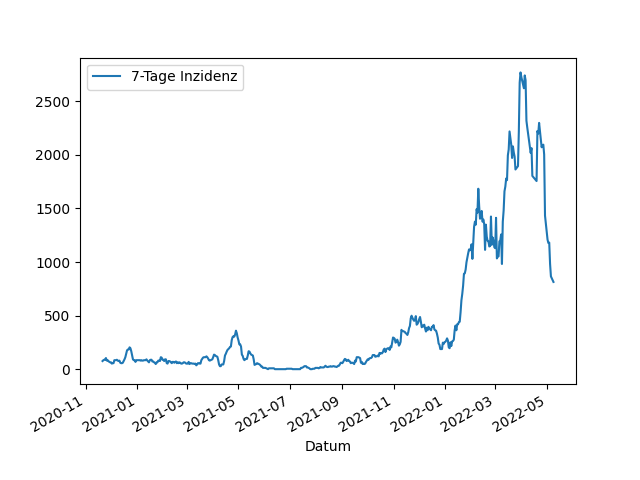
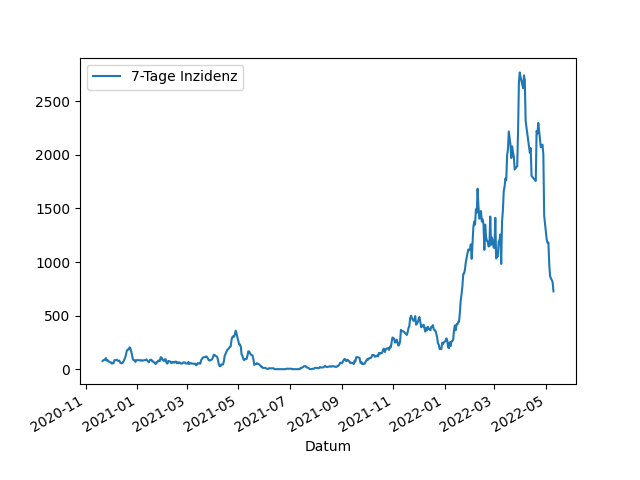
Update images

diff --git a/_includes/aktuelle_inzidenz.md b/_includes/aktuelle_inzidenz.md
@@ -1,1 +1,1 @@
-814,3
+726,5
